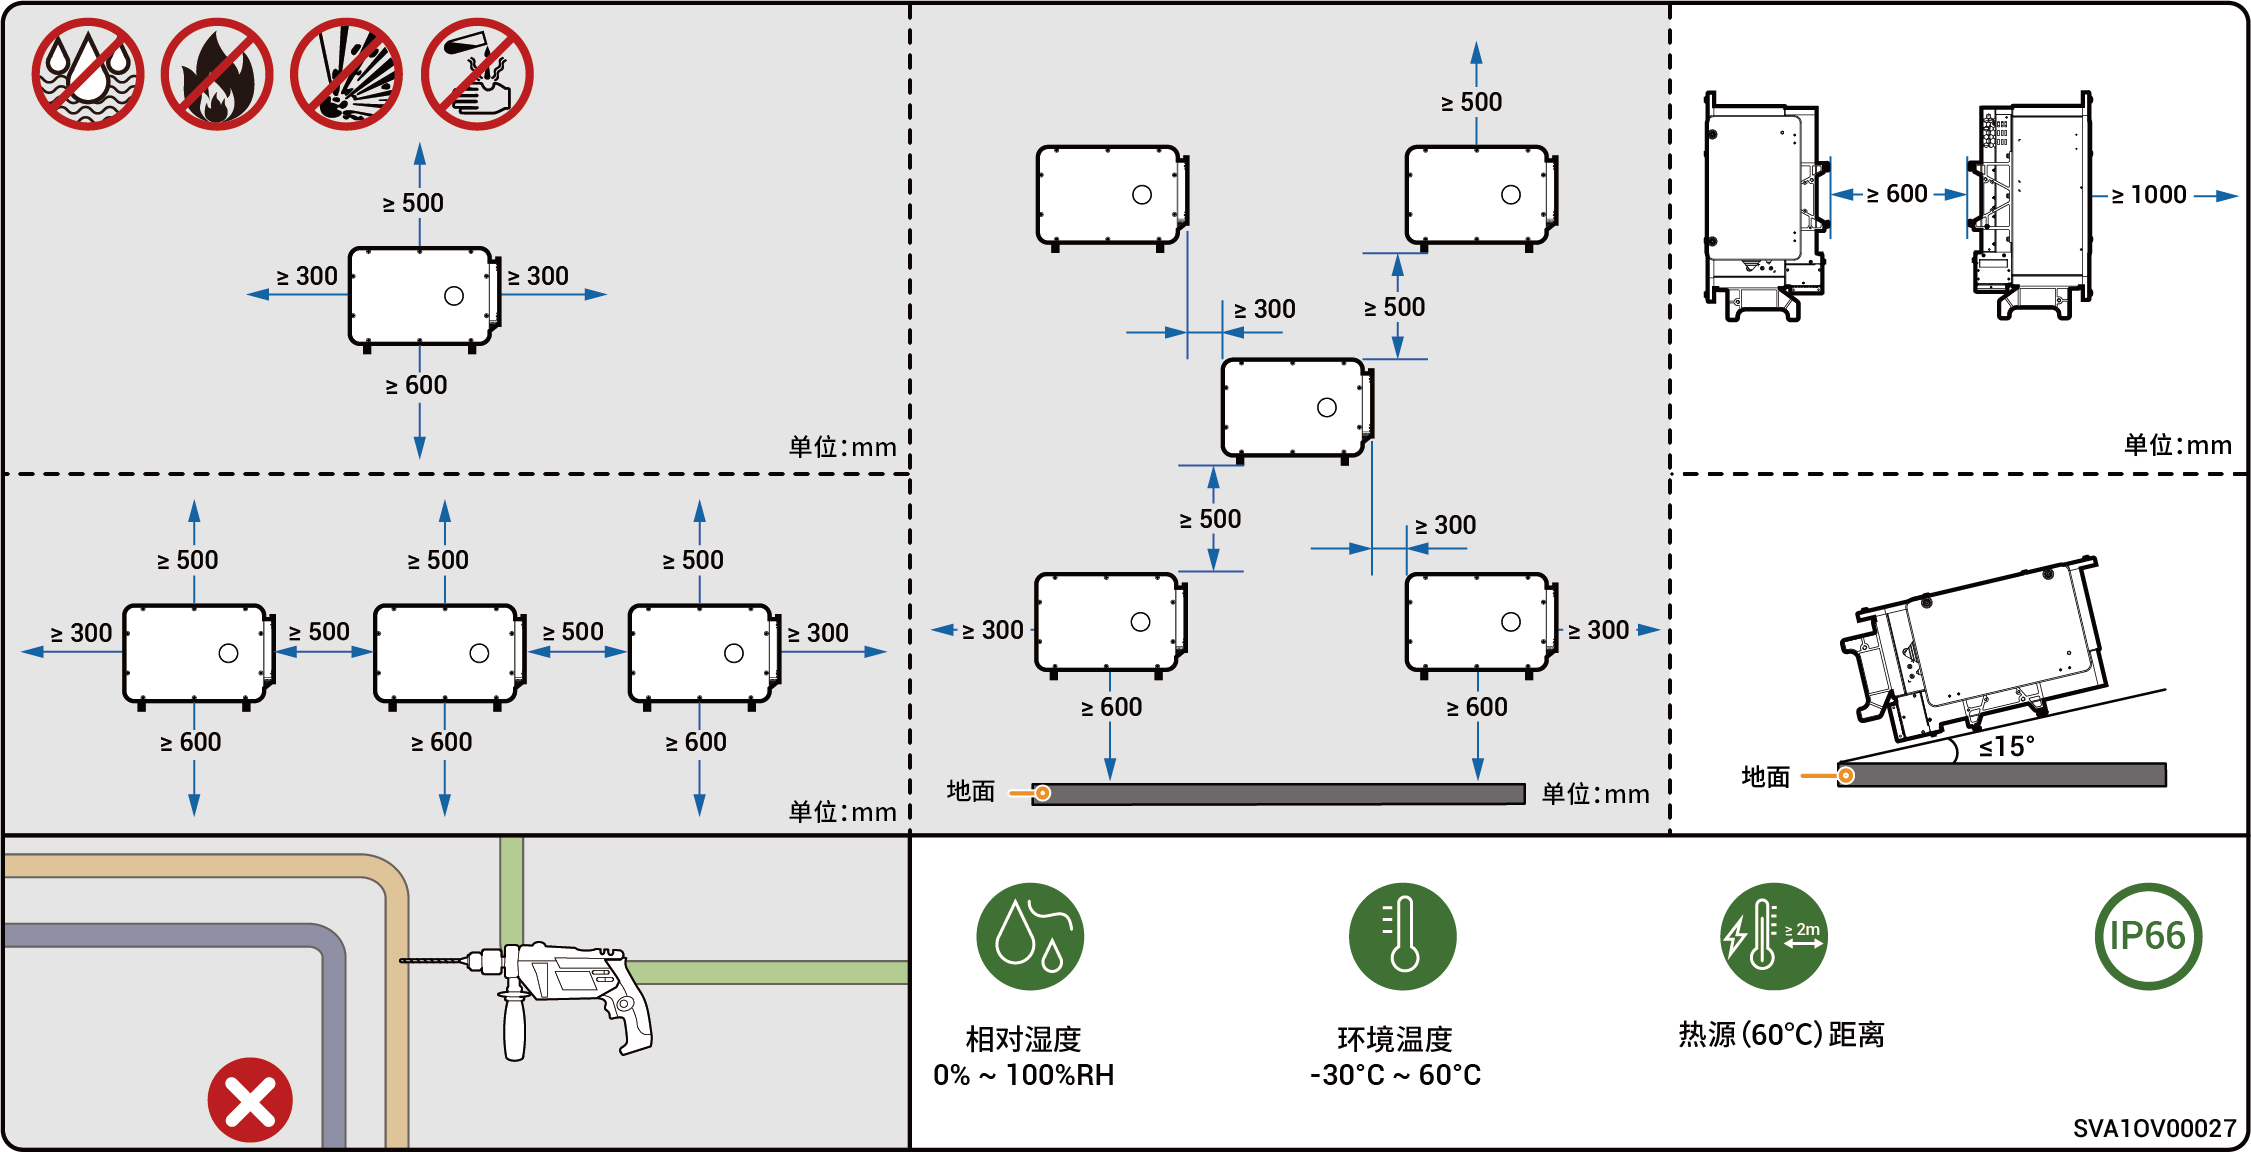
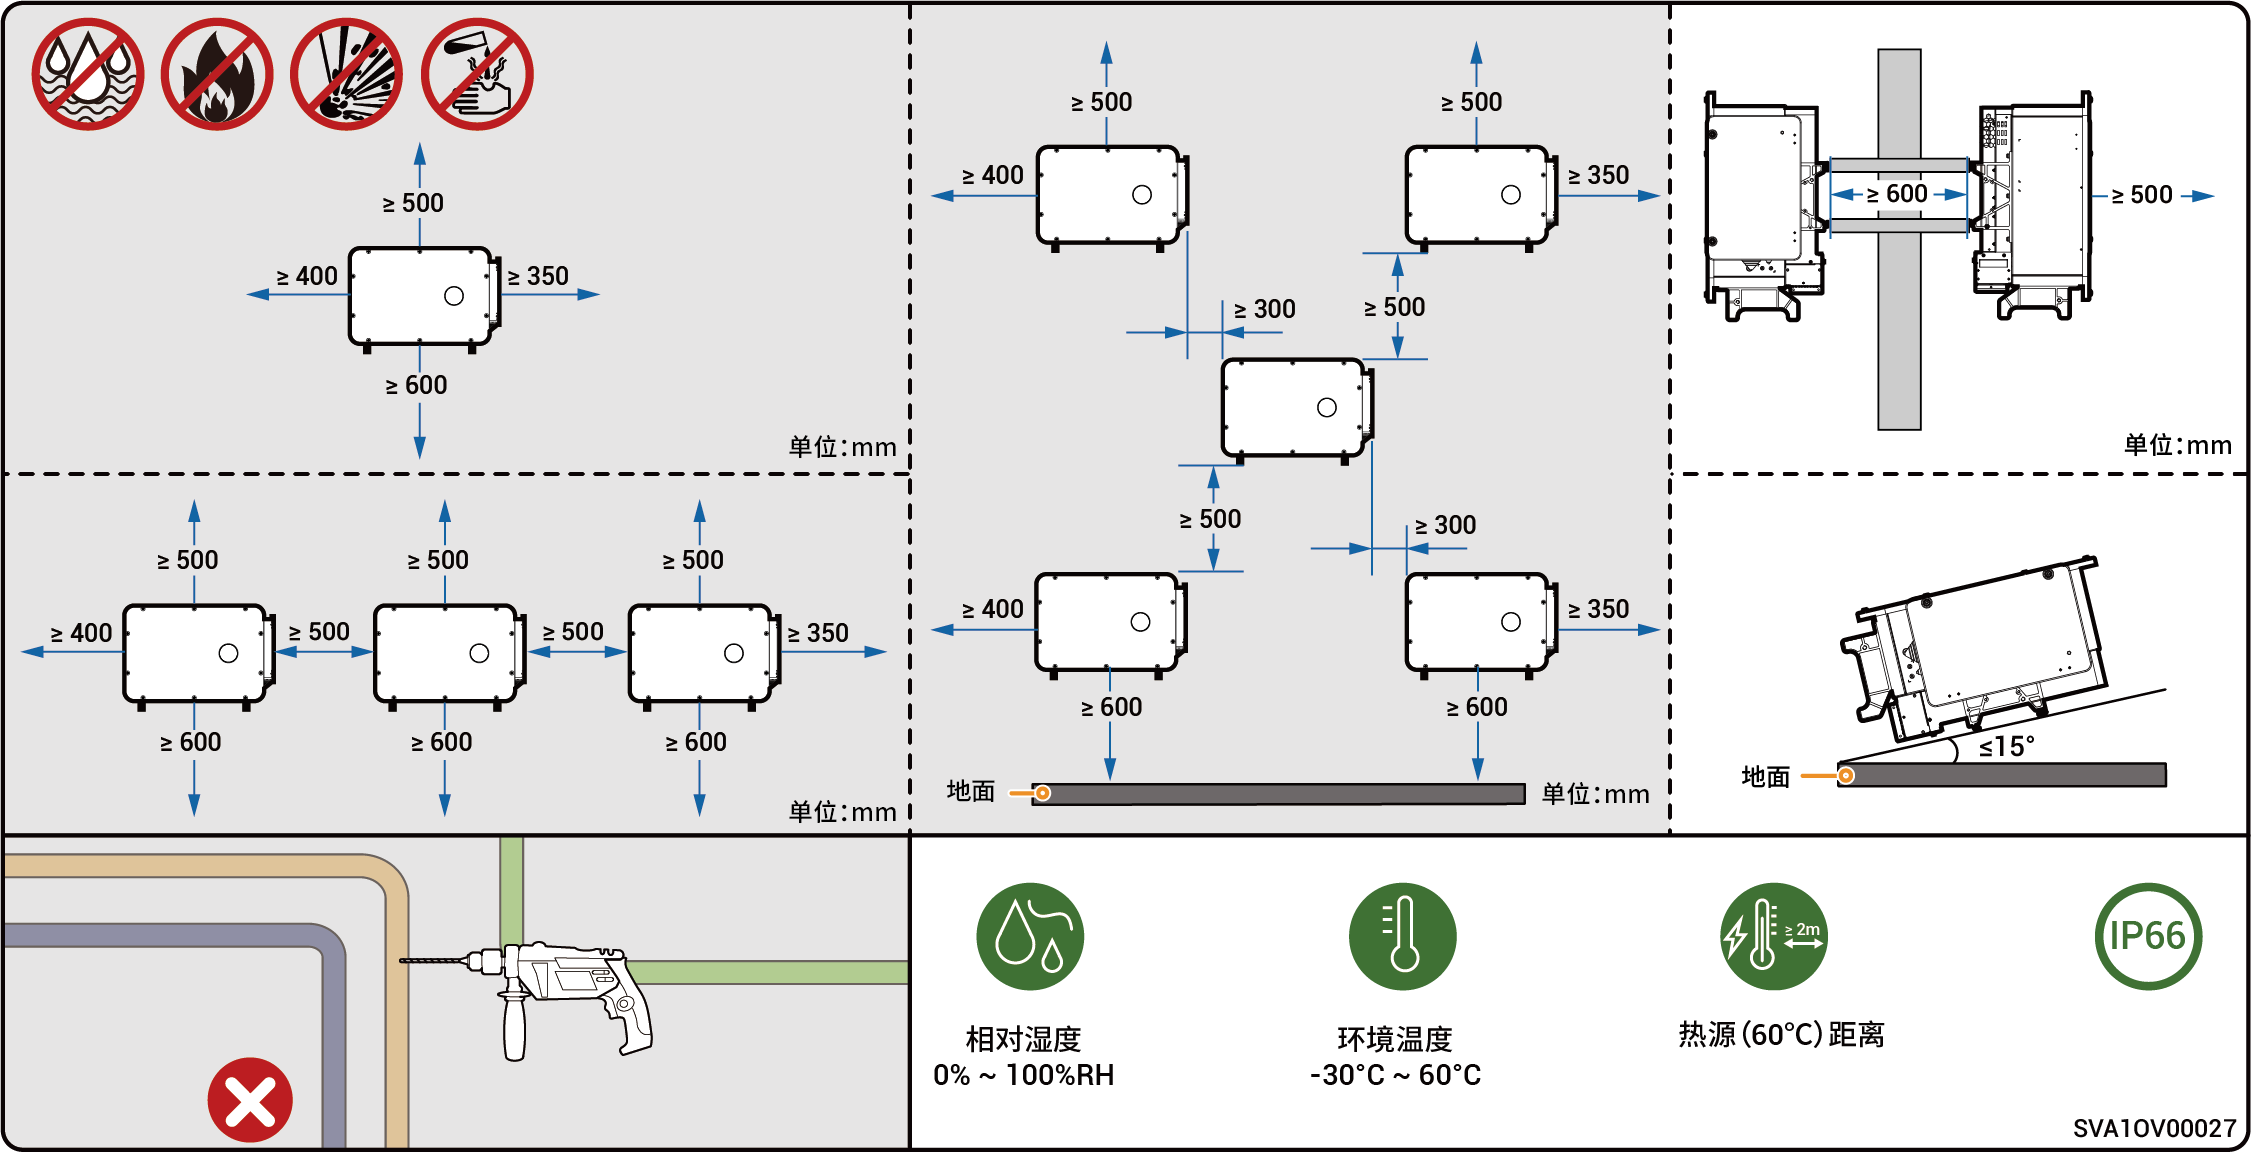
GITBOOK-12: No subject

diff --git a/SUMMARY.md b/SUMMARY.md
@@ -1,3 +1,51 @@
 # Table of contents
 
-* [Page](README.md)
+* [用户手册](README.md)
+* [版权声明](ban-quan-sheng-ming.md)
+* [修订历史](xiu-ding-li-shi.md)
+* [前言](qian-yan.md)
+* [安全注意事项](an-quan-zhu-yi-shi-xiang/README.md)
+  * [通用要求](an-quan-zhu-yi-shi-xiang/tong-yong-yao-qiu.md)
+  * [人员要求](an-quan-zhu-yi-shi-xiang/ren-yuan-yao-qiu.md)
+* [装卸与运输要求](zhuang-xie-yu-yun-shu-yao-qiu/README.md)
+  * [常规要求](zhuang-xie-yu-yun-shu-yao-qiu/chang-gui-yao-qiu.md)
+  * [电池包](zhuang-xie-yu-yun-shu-yao-qiu/dian-chi-bao.md)
+* [存储要求](cun-chu-yao-qiu.md)
+* [操作要求](cao-zuo-yao-qiu/README.md)
+  * [设备安装](cao-zuo-yao-qiu/she-bei-an-zhuang.md)
+  * [线缆连接](cao-zuo-yao-qiu/xian-lan-lian-jie.md)
+  * [高空作业要求](cao-zuo-yao-qiu/gao-kong-zuo-ye-yao-qiu.md)
+  * [设备维护与更换](cao-zuo-yao-qiu/she-bei-wei-hu-yu-geng-huan.md)
+* [产品介绍](chan-pin-jie-shao/README.md)
+  * [产品简介](chan-pin-jie-shao/chan-pin-jian-jie/README.md)
+    * [思格逆变器](chan-pin-jie-shao/chan-pin-jian-jie/si-ge-ni-bian-qi.md)
+    * [思格电池簇](chan-pin-jie-shao/chan-pin-jian-jie/si-ge-dian-chi-cu.md)
+    * [思格功率传感器](chan-pin-jie-shao/chan-pin-jian-jie/si-ge-gonglchuan-gan-qi.md)
+    * [思格通信棒](chan-pin-jie-shao/chan-pin-jian-jie/si-ge-tong-xin-bang.md)
+    * [思格通信网桥](chan-pin-jie-shao/chan-pin-jian-jie/si-ge-tong-xin-wang-qiao.md)
+    * [思格数据采集器](chan-pin-jie-shao/chan-pin-jian-jie/si-ge-shu-ju-cai-ji-qi.md)
+  * [产品外观](chan-pin-jie-shao/chan-pin-wai-guan/README.md)
+    * [Sigen PV (50–125)M1逆变器](chan-pin-jie-shao/chan-pin-wai-guan/sigen-pv-50125m1-ni-bian-qi.md)
+    * [Sigen PV (50–110)M1-HYA逆变器](chan-pin-jie-shao/chan-pin-wai-guan/sigen-pv-50110m1hya-ni-bian-qi.md)
+    * [Sigen PV 125M1-HYA逆变器](chan-pin-jie-shao/chan-pin-wai-guan/sigen-pv-125m1hya-ni-bian-qi.md)
+    * [Sigen PV (50–110)M1-HYB逆变器](chan-pin-jie-shao/chan-pin-wai-guan/sigen-pv-50110m1hyb-ni-bian-qi.md)
+    * [Sigen PV 100M1-HYB-JP逆变器](chan-pin-jie-shao/chan-pin-wai-guan/sigen-pv-100m1hybjp-ni-bian-qi.md)
+    * [思格电池](chan-pin-jie-shao/chan-pin-wai-guan/si-ge-dian-chi.md)
+    * [思格通信网桥](chan-pin-jie-shao/chan-pin-wai-guan/si-ge-tong-xin-wang-qiao.md)
+    * [思格数据采集器](chan-pin-jie-shao/chan-pin-wai-guan/si-ge-shu-ju-cai-ji-qi.md)
+  * [标签说明](chan-pin-jie-shao/biao-qian-shuo-ming.md)
+  * [支持的电网供电方式](chan-pin-jie-shao/zhi-chi-de-dian-wang-gong-dian-fang-shi.md)
+  * [组网介绍](chan-pin-jie-shao/zu-wang-jie-shao.md)
+* [选址要求](xuan-zhi-yao-qiu.md)
+* [系统运行](xi-tong-yun-xing/README.md)
+  * [工作模式](xi-tong-yun-xing/gong-zuo-mo-shi.md)
+  * [指示灯状态](xi-tong-yun-xing/zhi-shi-deng-zhuang-tai.md)
+* [设备安装与接线](she-bei-an-zhuang-yu-jie-xian.md)
+* [App查询](app-cha-xun.md)
+* [系统维护](xi-tong-wei-hu/README.md)
+  * [例行维护](xi-tong-wei-hu/li-xing-wei-hu.md)
+  * [系统下电/上电](xi-tong-wei-hu/xi-tong-xia-dian-shang-dian.md)
+  * [低电量使用](xi-tong-wei-hu/di-dian-liang-shi-yong.md)
+  * [应急处理](xi-tong-wei-hu/ying-ji-chu-li.md)
+* [逆变器和电池包处置](ni-bian-qi-he-dian-chi-bao-chu-zhi.md)
+* [附录](fu-lu.md)

diff --git a/README.md b/README.md
@@ -1,2 +1,3 @@
-# Page
+# 用户手册
 
+<figure><img src=".gitbook/assets/工商业光储系统 用户手册-zh.png" alt=""><figcaption></figcaption></figure>
